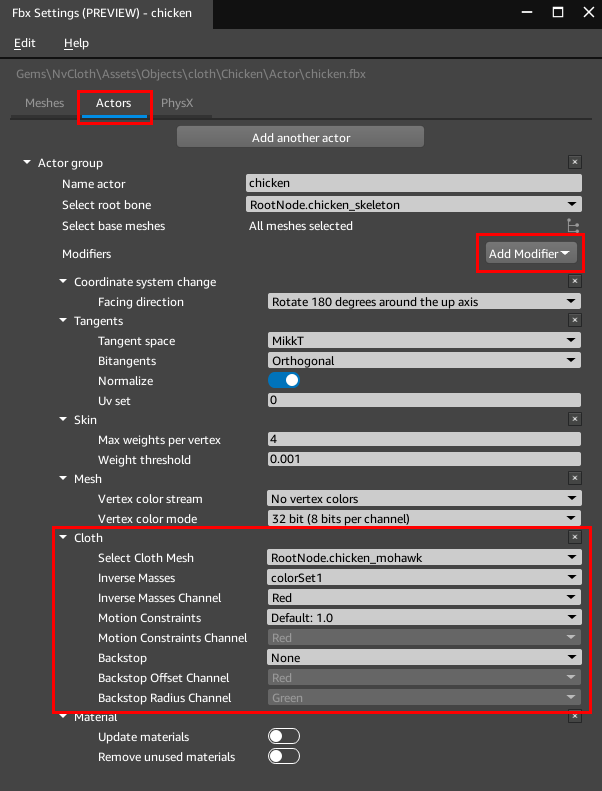
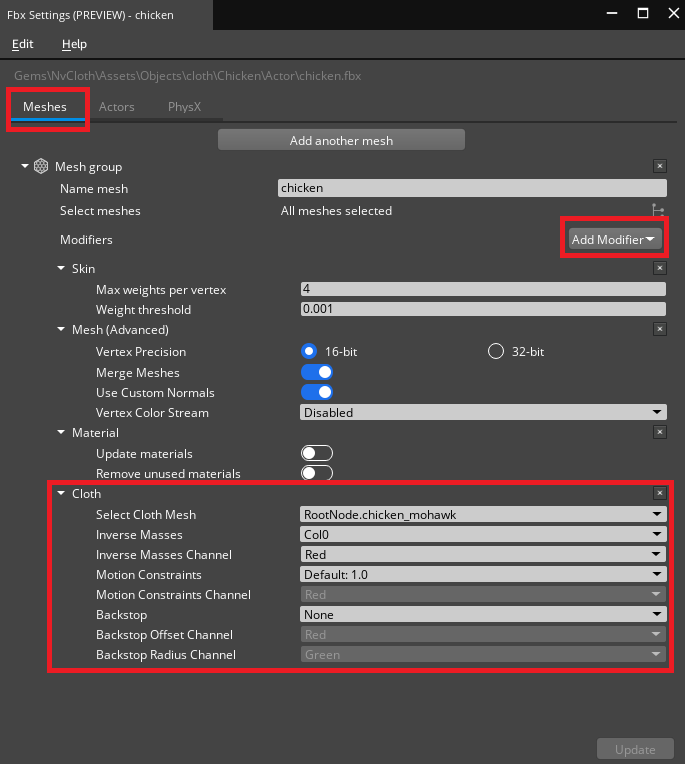
Updated character cloth setup page since now the cloth modifier is added in the Meshes tab in FBX Settings.

Changed region(s): [[0.0, 0.0, 1.0, 0.9634], [0.8671, 0.0, 1.0, 0.0301], [0.8671, 0.9634, 0.9867, 0.9935]]

diff --git a/content/docs/user-guide/interactivity/physics/nvidia-cloth/actors.md b/content/docs/user-guide/interactivity/physics/nvidia-cloth/actors.md
@@ -47,7 +47,7 @@ Create cloth by adding the **Cloth** component to an entity that has an **Actor*
    1. Click the button beside the **Mesh node** property to open the **FBX Settings** window\.
 ![\[Open 3D Engine cloth component mesh node select.\]](/images/user-guide/physx/cloth/ui-cloth-mesh-node-select.png)
 
-   1. In the **FBX Settings** window, on the **Actors** tab, and choose **Add Modifier**, **Cloth**\.
+   1. In the **FBX Settings** window, on the **Meshes** tab, and choose **Add Modifier**, **Cloth**\.
 
    1. In the **Cloth** modifier area:
 
